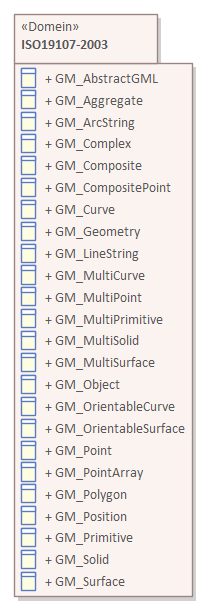
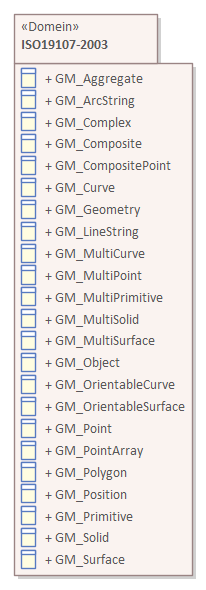
MIMLM-ISO-1.0-1-20240216-20240816-144502

Changed region(s): [[0.0583, 0.0, 0.932, 0.9763]]

diff --git a/data/iso-cat.respec.html b/data/iso-cat.respec.html
@@ -1,12 +1,12 @@
 
 <!DOCTYPE HTML><section id="cat" class="normative">
    <h2>Gegevensdefinitie</h2>
-   <!--MIMLM-ISO-1.0-1-20240216-20240816-142514 imvertor 4.1.2-->
+   <!--MIMLM-ISO-1.0-1-20240216-20240816-144502 imvertor 4.1.2-->
    <section id="EAID_C6A3DA8D_ECDB_4767_81E7_24B8386F2D6B">
       <h3>   ISO19107-2003 - overzicht</h3>
       <div class="imageinfo overview">
          <figure><img src="data/Images/EAID_C6A3DA8D_ECDB_4767_81E7_24B8386F2D6B.png" usemap="#imagemap-EAID_C6A3DA8D_ECDB_4767_81E7_24B8386F2D6B" alt="Diagram: Overzicht van de primitieve datatypen uit ISO19107:2003"><figcaption>ISO19107-2003</figcaption>
-         </figure><map name="imagemap-EAID_C6A3DA8D_ECDB_4767_81E7_24B8386F2D6B"><area shape="rect" alt="GM_MultiPrimitive" coords="610,431,733,513" href="#global_class_ISO191072003_GM_MultiPrimitive"><area shape="rect" alt="GM_Surface" coords="457,431,580,513" href="#global_class_ISO191072003_GM_Surface"><area shape="rect" alt="GM_Solid" coords="312,431,435,513" href="#global_class_ISO191072003_GM_Solid"><area shape="rect" alt="GM_Primitive" coords="168,431,291,513" href="#global_class_ISO191072003_GM_Primitive"><area shape="rect" alt="GM_Position" coords="458,330,581,412" href="#global_class_ISO191072003_GM_Position"><area shape="rect" alt="GM_Polygon" coords="26,431,149,513" href="#global_class_ISO191072003_GM_Polygon"><area shape="rect" alt="GM_PointArray" coords="538,233,661,315" href="#global_class_ISO191072003_GM_PointArray"><area shape="rect" alt="GM_Point" coords="312,330,435,412" href="#global_class_ISO191072003_GM_Point"><area shape="rect" alt="GM_OrientableCurve" coords="610,330,762,412" href="#global_class_ISO191072003_GM_OrientableCurve"><area shape="rect" alt="GM_OrientableSurface" coords="312,227,525,309" href="#global_class_ISO191072003_GM_OrientableSurface"><area shape="rect" alt="GM_Object" coords="26,330,149,412" href="#global_class_ISO191072003_GM_Object"><area shape="rect" alt="GM_MultiSurface" coords="168,330,291,412" href="#global_class_ISO191072003_GM_MultiSurface"><area shape="rect" alt="GM_MultiSolid" coords="581,123,705,205" href="#global_class_ISO191072003_GM_MultiSolid"><area shape="rect" alt="GM_MultiPoint" coords="168,227,291,309" href="#global_class_ISO191072003_GM_MultiPoint"><area shape="rect" alt="GM_MultiCurve" coords="26,227,149,309" href="#global_class_ISO191072003_GM_MultiCurve"><area shape="rect" alt="GM_LineString" coords="440,123,564,205" href="#global_class_ISO191072003_GM_LineString"><area shape="rect" alt="GM_Geometry" coords="297,123,420,205" href="#global_class_ISO191072003_GM_Geometry"><area shape="rect" alt="GM_Curve" coords="155,119,278,201" href="#global_class_ISO191072003_GM_Curve"><area shape="rect" alt="GM_CompositePoint" coords="457,21,631,103" href="#global_class_ISO191072003_GM_CompositePoint"><area shape="rect" alt="GM_Composite" coords="18,119,141,201" href="#global_class_ISO191072003_GM_Composite"><area shape="rect" alt="GM_Complex" coords="650,26,773,108" href="#global_class_ISO191072003_GM_Complex"><area shape="rect" alt="GM_ArcString" coords="317,21,440,103" href="#global_class_ISO191072003_GM_ArcString"><area shape="rect" alt="GM_Aggregate" coords="155,21,278,103" href="#global_class_ISO191072003_GM_Aggregate"><area shape="rect" alt="GM_AbstractGML" coords="14,14,137,96" href="#global_class_ISO191072003_GM_AbstractGML"></map><p>
+         </figure><map name="imagemap-EAID_C6A3DA8D_ECDB_4767_81E7_24B8386F2D6B"><area shape="rect" alt="GM_MultiPrimitive" coords="606,424,729,506" href="#global_class_ISO191072003_GM_MultiPrimitive"><area shape="rect" alt="GM_Surface" coords="453,424,576,506" href="#global_class_ISO191072003_GM_Surface"><area shape="rect" alt="GM_Solid" coords="308,424,431,506" href="#global_class_ISO191072003_GM_Solid"><area shape="rect" alt="GM_Primitive" coords="164,424,287,506" href="#global_class_ISO191072003_GM_Primitive"><area shape="rect" alt="GM_Position" coords="454,323,577,405" href="#global_class_ISO191072003_GM_Position"><area shape="rect" alt="GM_Polygon" coords="22,424,145,506" href="#global_class_ISO191072003_GM_Polygon"><area shape="rect" alt="GM_PointArray" coords="534,226,657,308" href="#global_class_ISO191072003_GM_PointArray"><area shape="rect" alt="GM_Point" coords="308,323,431,405" href="#global_class_ISO191072003_GM_Point"><area shape="rect" alt="GM_OrientableCurve" coords="606,323,758,405" href="#global_class_ISO191072003_GM_OrientableCurve"><area shape="rect" alt="GM_OrientableSurface" coords="308,220,521,302" href="#global_class_ISO191072003_GM_OrientableSurface"><area shape="rect" alt="GM_Object" coords="22,323,145,405" href="#global_class_ISO191072003_GM_Object"><area shape="rect" alt="GM_MultiSurface" coords="164,323,287,405" href="#global_class_ISO191072003_GM_MultiSurface"><area shape="rect" alt="GM_MultiSolid" coords="577,116,700,198" href="#global_class_ISO191072003_GM_MultiSolid"><area shape="rect" alt="GM_MultiPoint" coords="164,220,287,302" href="#global_class_ISO191072003_GM_MultiPoint"><area shape="rect" alt="GM_MultiCurve" coords="22,220,145,302" href="#global_class_ISO191072003_GM_MultiCurve"><area shape="rect" alt="GM_LineString" coords="436,116,560,198" href="#global_class_ISO191072003_GM_LineString"><area shape="rect" alt="GM_Geometry" coords="293,116,416,198" href="#global_class_ISO191072003_GM_Geometry"><area shape="rect" alt="GM_Curve" coords="151,112,274,194" href="#global_class_ISO191072003_GM_Curve"><area shape="rect" alt="GM_CompositePoint" coords="453,14,627,96" href="#global_class_ISO191072003_GM_CompositePoint"><area shape="rect" alt="GM_Composite" coords="14,112,137,194" href="#global_class_ISO191072003_GM_Composite"><area shape="rect" alt="GM_Complex" coords="646,19,769,101" href="#global_class_ISO191072003_GM_Complex"><area shape="rect" alt="GM_ArcString" coords="313,14,436,96" href="#global_class_ISO191072003_GM_ArcString"><area shape="rect" alt="GM_Aggregate" coords="151,14,274,96" href="#global_class_ISO191072003_GM_Aggregate"></map><p>
             
             <p>Overzicht van de primitieve datatypen uit ISO19107:2003</p>
             </p>
@@ -531,47 +531,6 @@
                <tr>
                   <th>Naam</th>
                   <td>GM_Object</td>
-               </tr>
-            </tbody>
-         </table>
-         </section>
-      
-      <section id="global_class_ISO191072003_GM_AbstractGML">
-         <h4>Primitief datatype   GM_AbstractGML</h4>
-         
-         <table style="width: 100%;">
-            <colgroup style="width: 30%;"></colgroup>
-            <colgroup style="width: 70%;"></colgroup>
-            <tbody>
-               <tr>
-                  <th>Naam</th>
-                  <td>GM_AbstractGML</td>
-               </tr>
-               <tr>
-                  <th>Definitie</th>
-                  <td>
-                     
-                     
-                     <p>De superklasse van alle geometrietypen. </p>
-                     
-                     </td>
-               </tr>
-               <tr>
-                  <th>Toelichting</th>
-                  <td>
-                     
-                     
-                     <p>Deze klasse beschrijft de eigenschappen die alle geometrie types in ISO 19107 delen.
-                        Operaties die voor de klasse GM<em>Object beschreven zijn zullen dus voor ieder geometrietype geïmplementeerd zijn. Als
-                           in een model de geometrie van een object beschreven moet worden terwijl er niets bekend
-                           is over het mogelijke voorkomen van die geometrie dan kan GM</em>Object worden gekozen.</p>
-                     
-                     <p>Ook als een klasse meerdere geometrietypen toestaat (bijvoorbeeld: een inrichtingselement
-                        kan een punt of een lijn zijn) kan GM<em>Object worden gebruikt, waarbij dit met een constraint wordt ingeperkt tot GM</em>Point en GM_Curve.</p>
-                     
-                     <p>Zie ook: https://docs.geostandaarden.nl/nen3610/gimeg/#gm_object</p>
-                     
-                     </td>
                </tr>
             </tbody>
          </table>
